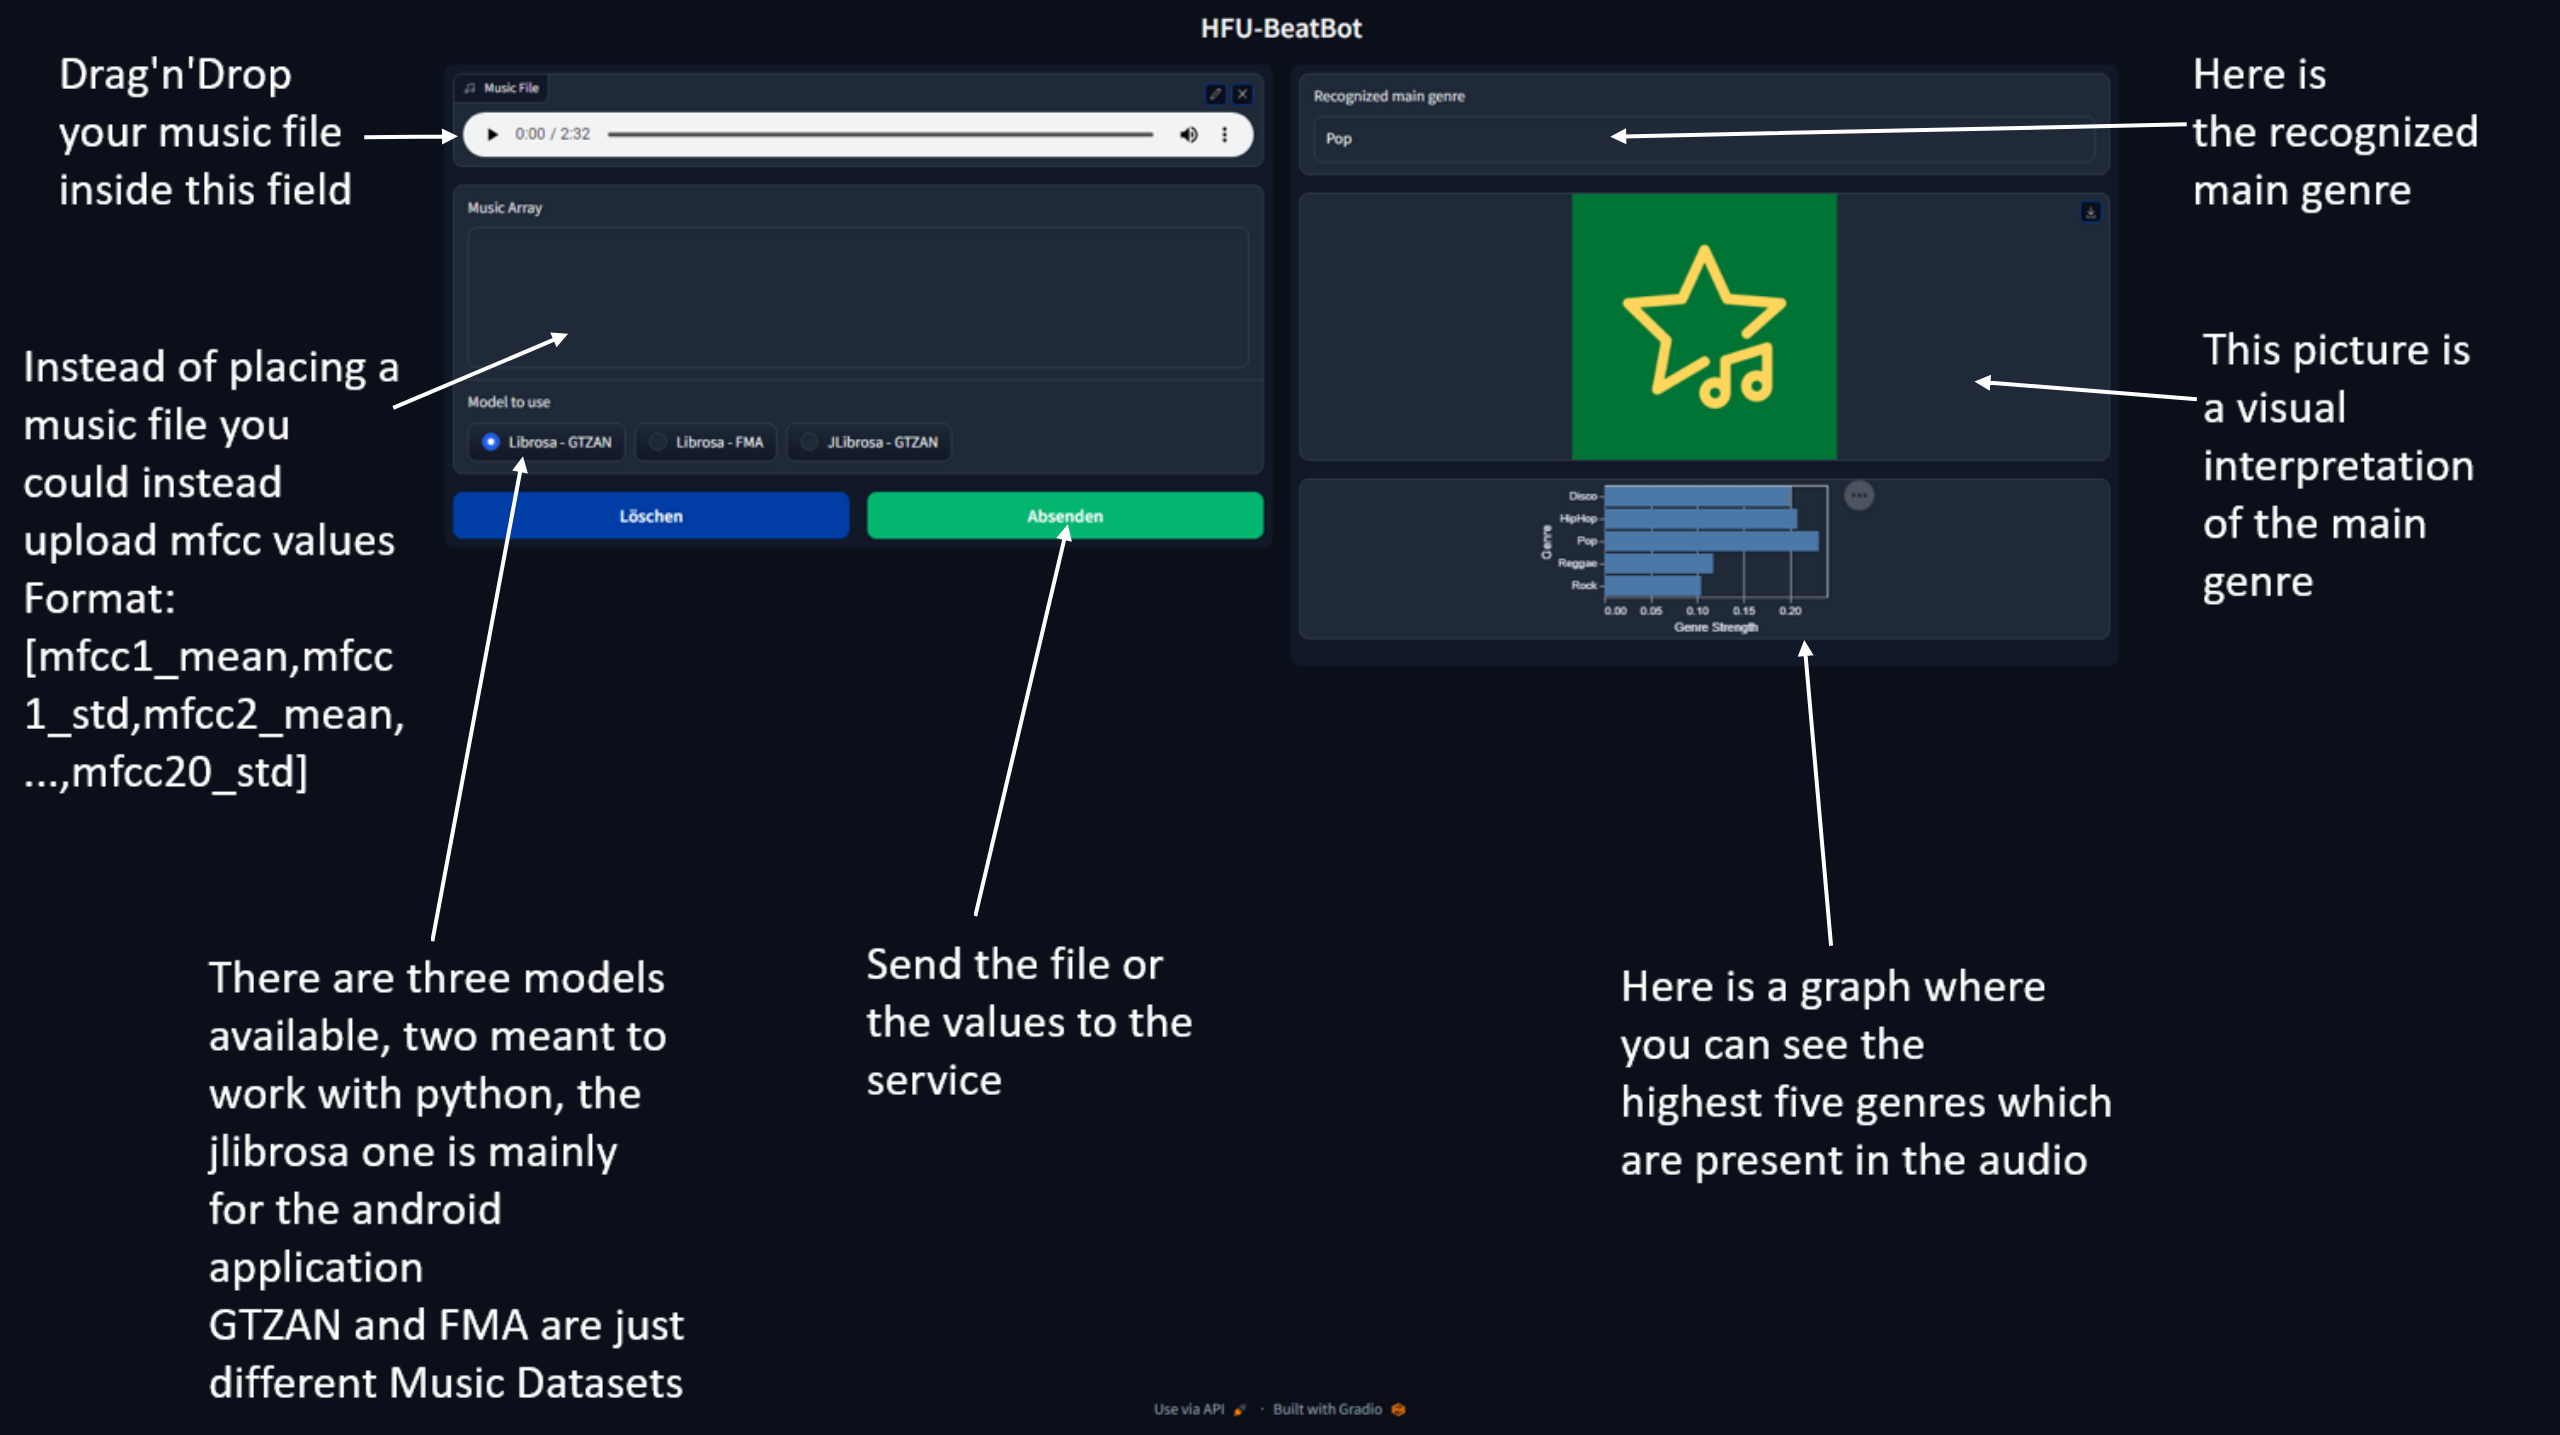
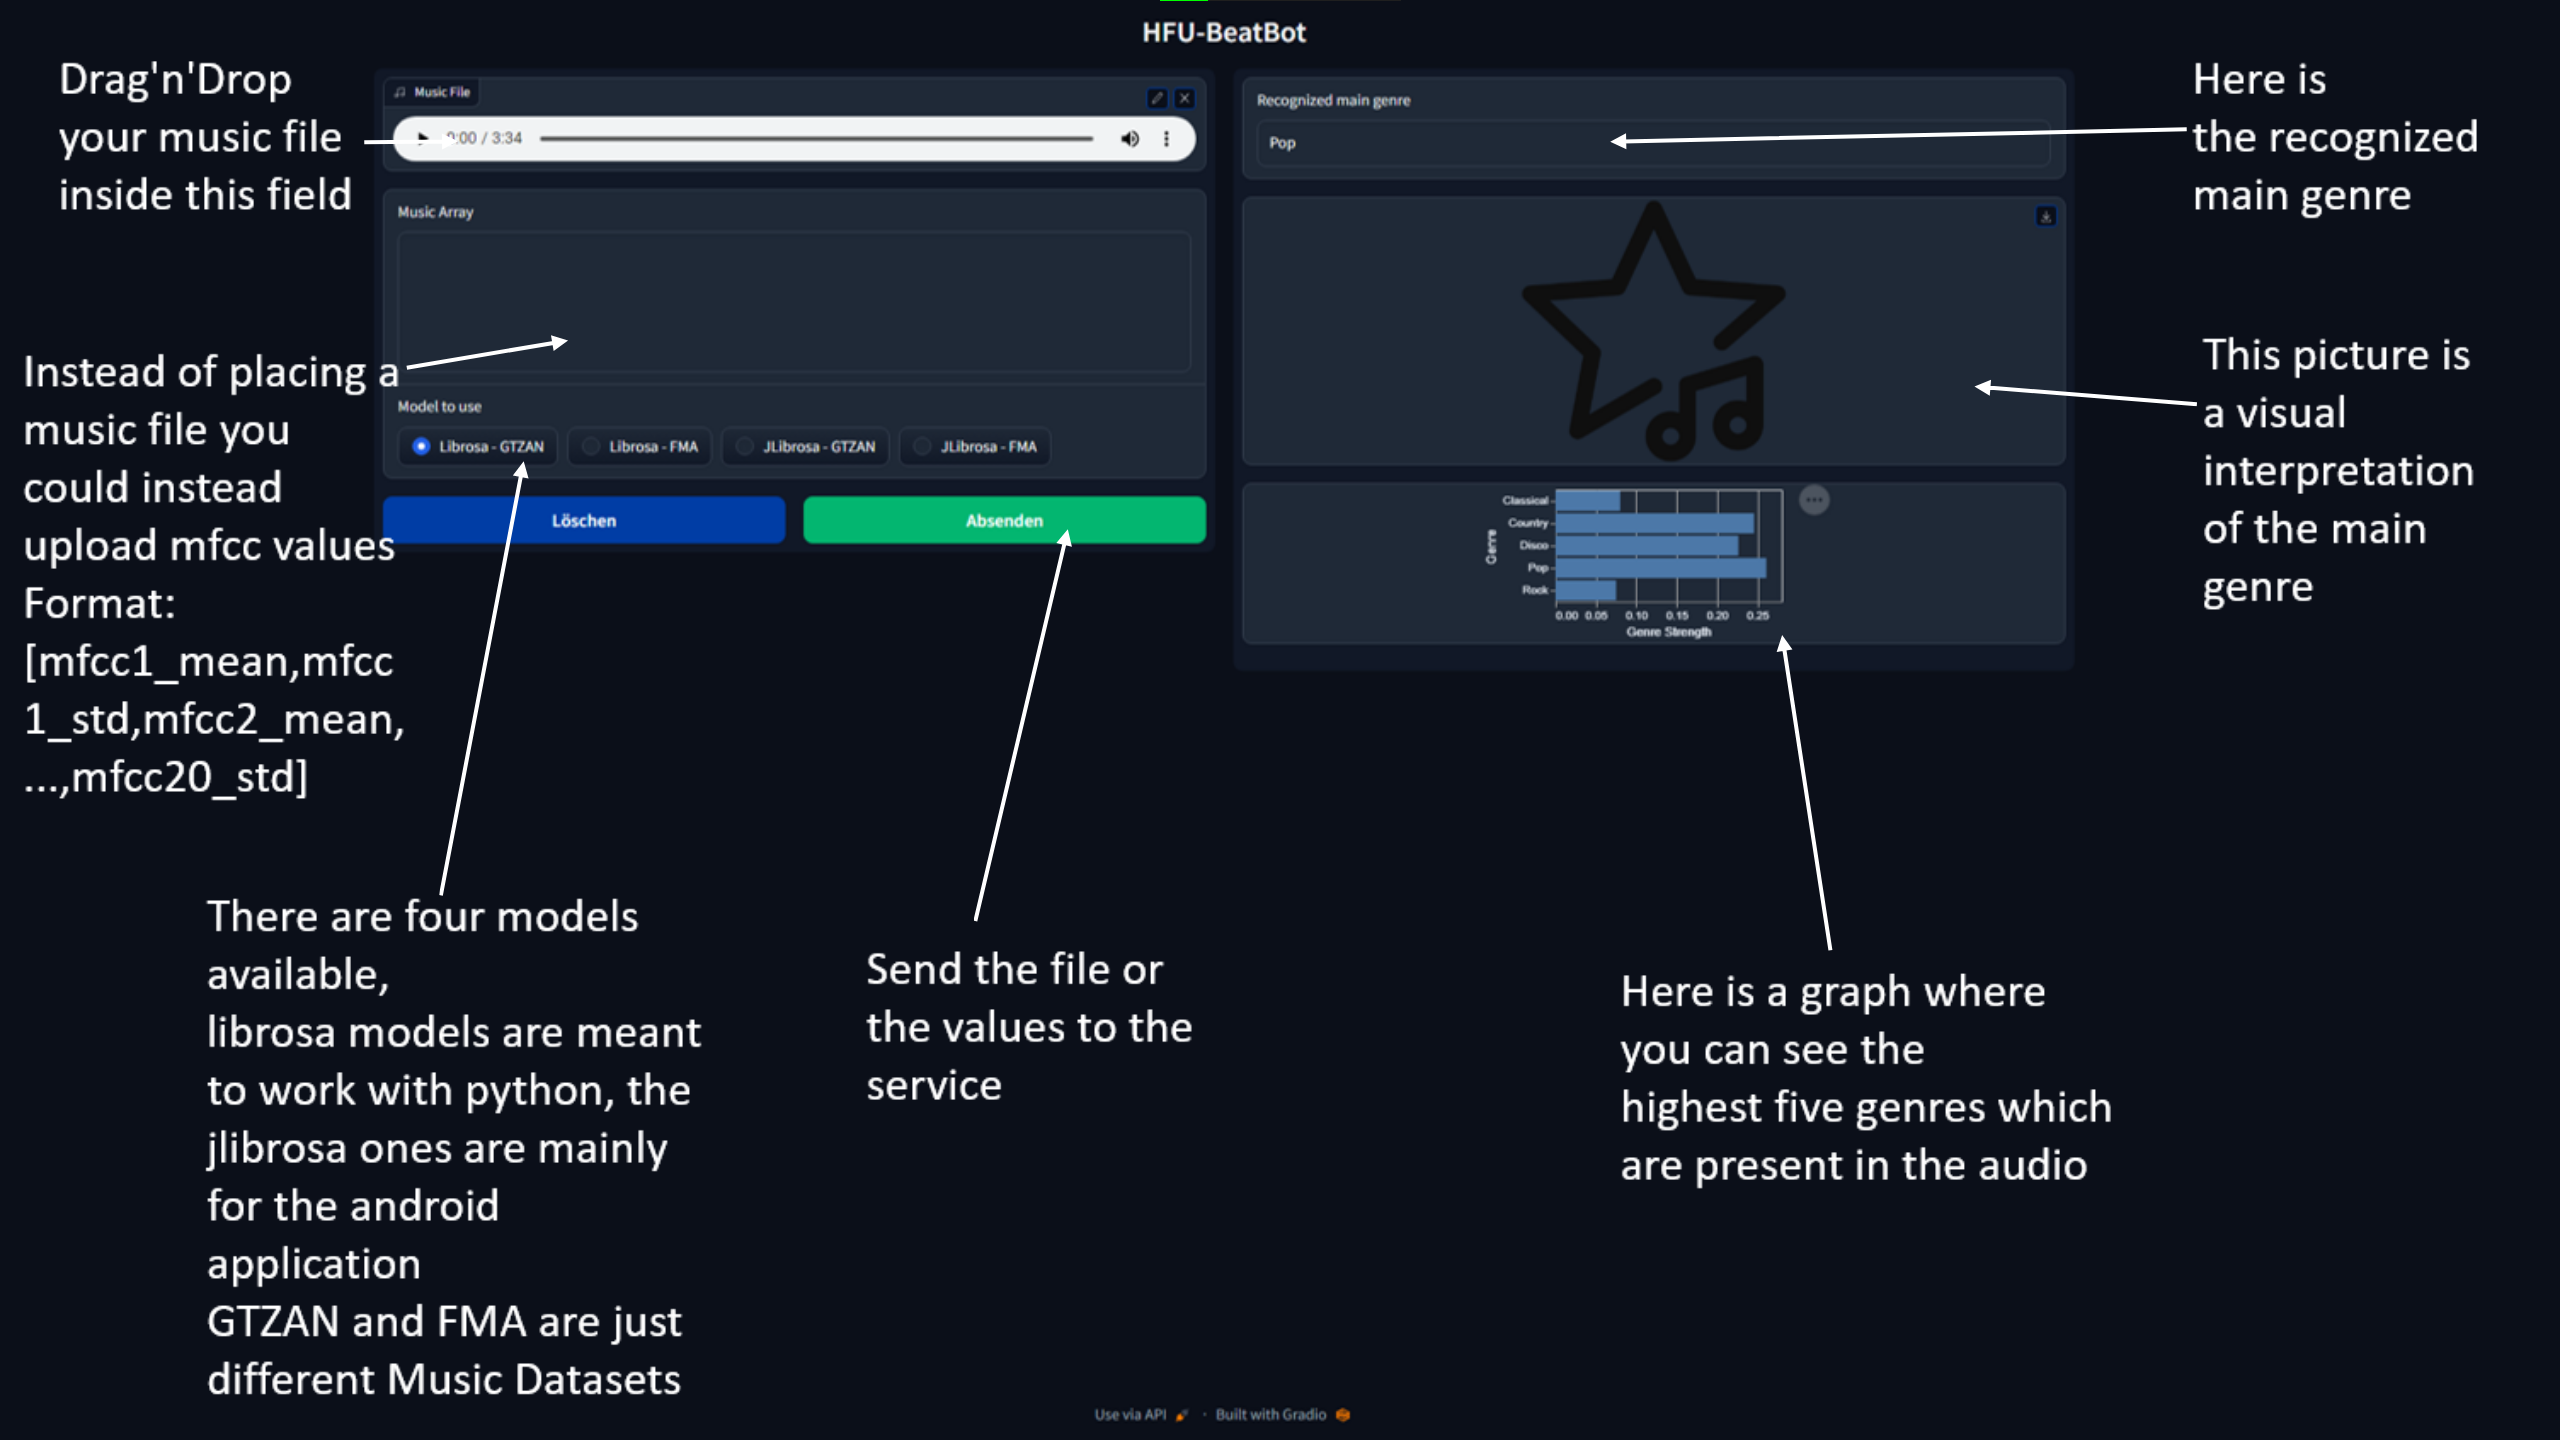
Update ReadMe and comments

diff --git a/genre_detection/service.py b/genre_detection/service.py
@@ -14,7 +14,8 @@ class GenreDetectionService(EasyMLService):
     """Genre detection service."""
 
     def load_model(self):
-        """Loads all models which are used in the service. Called once on start up."""
+        """Called once at startup. Loads all models and scalers used in the service.
+        The scalers transform the received values so that the model can process them."""
 
         # get path of this file
         path_to_folder = os.path.dirname(os.path.abspath(__file__))
@@ -87,13 +88,33 @@ class GenreDetectionService(EasyMLService):
         # generate the response as a simple json string
         return {"genre": main_genre, "confidences": confidences}
 
-    def get_return_values(self, np_array, scaler, model, genres=constants.GTZAN_GENRES):
+    def get_return_values(
+        self, np_array, scaler, model, genres=constants.GTZAN_GENRES
+    ) -> tuple[str, dict]:
+        """Process the np_array with the mfcc values and return the main_genre as str and dictionary with the confidences
+
+        Args:
+            np_array (np_array): mfcc values
+            scaler: The scaler to use with the model
+            model: The model used to predict the genres
+            genres (list[str], optional): The genres which are returned by the model. Defaults to constants.GTZAN_GENRES.
+
+        Returns:
+            tuple[str, dict]: main_genre and confidences with genres as keys
+        """
+
+        # up or downscale the values to match the trainigs data
         np_array = scaler.transform(np_array)
+
+        # get the prediction
         prediction = model.predict(np_array)
+
+        # get the highest value, as this is the main genre
         genre = np.argmax(prediction[0])
 
         confidences = dict()
 
+        # enter all the confidences into the dict
         for x in range(len(genres)):
             confidences[genres[x]] = float(prediction[0][x])
 

diff --git a/README.md b/README.md
@@ -20,7 +20,7 @@ Simply send a JSON Post request to /process:
 
 ```
 {
-    "model_to_use": 2, // 0 = "Librosa - GTZAN", 1 = "Librosa - FMA", 2 = "JLibrosa - GTZAN"
+    "model_to_use": 2, // 0 = "Librosa - GTZAN", 1 = "Librosa - FMA", 2 = "JLibrosa - GTZAN", 3 = "JLibrosa - FMA"
     "music_array": [
         mfcc_01_mean,mfcc_01_std,...,mfcc_20_mean,mfcc_20_std
     ]
@@ -46,6 +46,20 @@ The service will answer with a response like this:
   }
 }
 ```
+
+</details>
+
+<details>
+<summary>Click here when you are interested in the different models.</summary>
+
+Four models are available, which differ in the following points:
+
+- The language in which the mfcc values are generated:
+  - Librosa: The popular Python library for working with audio files.
+  - JLibrosa: The Java counterpart to the Python library, used because it generates slightly different values than Librosa.
+- The data set from which the mfcc values are generated (we split the sound files described below into 5-second parts and added noise, doubling the number of snippets):
+  - GTZAN: 10 genres, 100 audio files, each 30 seconds long.
+  - Free Music Archive (FMA): 8 genres, 1000 audio files, each 30 seconds long.
 
 </details>
 
